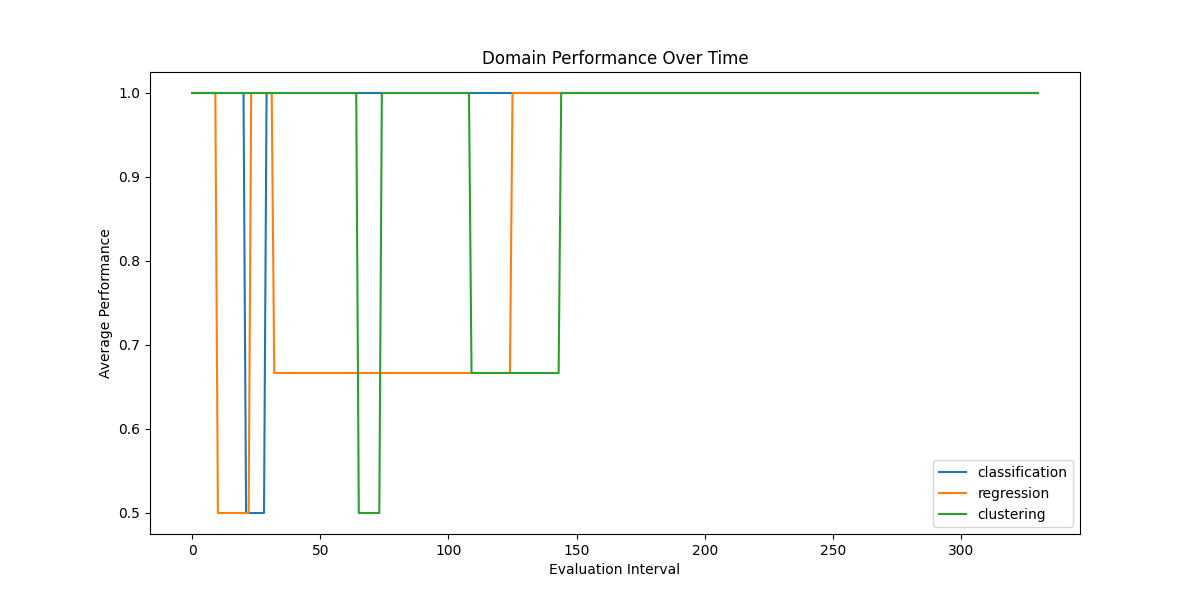
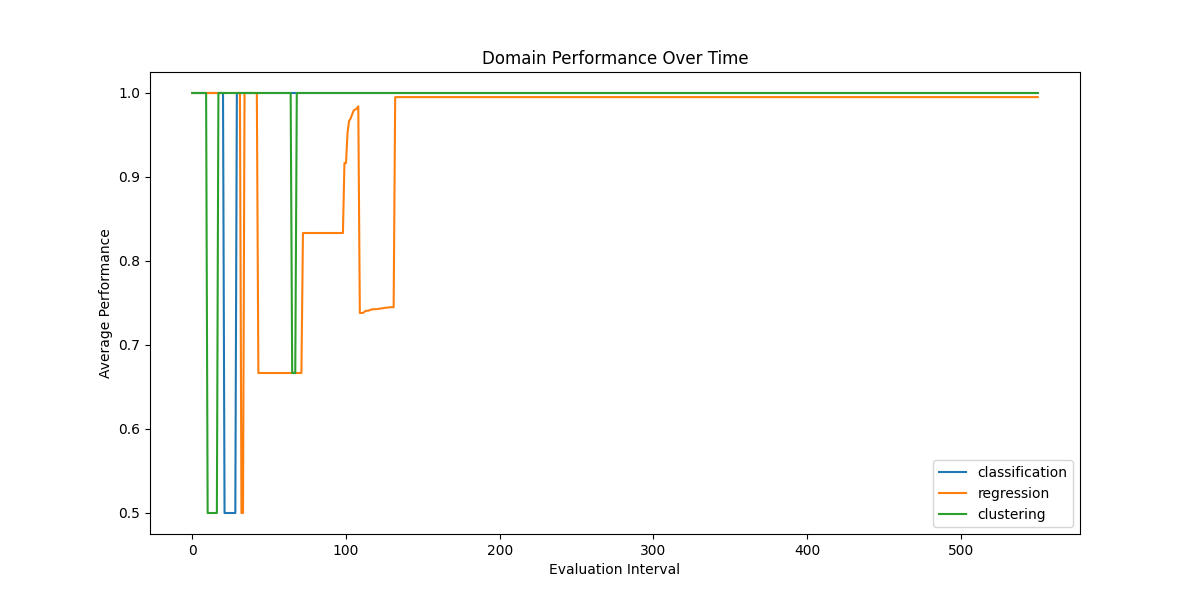
Backengine code update

diff --git a/collaborative_intelligence.py b/collaborative_intelligence.py
@@ -31,6 +31,7 @@ class Agent:
         }
         self.mentor = None
         self.mentee = None
+        self.mentoring_impact = defaultdict(list)  # Track impact of mentoring
 
     async def process_task(self, task: Task) -> Tuple[str, float]:
         processing_time = task.complexity * (1 / self.reputation) * (1 / self.expertise_level[task.domain])
@@ -101,9 +102,14 @@ class Agent:
         return current_time - self.last_information_request >= 7
 
     def increase_expertise(self, domain: str):
+        old_expertise = self.expertise_level[domain]
         self.expertise_level[domain] = min(10, self.expertise_level[domain] + 0.1)
         if self.mentee:
+            mentee_old_expertise = self.mentee.expertise_level[domain]
             self.mentee.expertise_level[domain] = min(self.mentee.expertise_level[domain] + 0.05, self.expertise_level[domain])
+            mentee_expertise_gain = self.mentee.expertise_level[domain] - mentee_old_expertise
+            self.mentoring_impact[domain].append(mentee_expertise_gain)
+        return self.expertise_level[domain] - old_expertise
 
 class MultiAgentSystem:
     def __init__(self, agents: List[Agent]):
@@ -118,6 +124,7 @@ class MultiAgentSystem:
         self.add_agent_threshold = 0.7
         self.remove_agent_threshold = 0.4
         self.domain_performance = defaultdict(list)
+        self.mentoring_reports = []
         for agent in self.agents:
             agent.creation_time = self.current_time
 
@@ -146,7 +153,7 @@ class MultiAgentSystem:
             workload_score = 1 / (1 + abs(agent_workloads[agent] - avg_workload))
             specialization_score = 2 if agent.specialization == task.domain else 1
             warm_up_score = min(1, (self.current_time - agent.creation_time) / 3)
-            integration_score = 3 if agent.total_tasks_processed < 50 else 1
+            integration_score = 5 if agent.total_tasks_processed < 50 else 1  # Increased boost for newer agents
             catch_up_score = 1 + max(0, (avg_workload - agent.total_tasks_processed) / avg_workload)
             domain_balance_score = domain_workloads[task.domain] / total_domain_workload if total_domain_workload > 0 else 1
             expertise_score = agent.expertise_level[task.domain]
@@ -274,6 +281,7 @@ class MultiAgentSystem:
         self.performance_history.append(system_performance)
         self.workload_history.append(self._get_workload_distribution())
         self._update_domain_performance()
+        self._generate_mentoring_report()
         self.log.append(f"Time {self.current_time}: System performance: {system_performance:.2f}")
         return system_performance
 
@@ -304,6 +312,17 @@ class MultiAgentSystem:
                 avg_performance = sum(agent.performance_by_task_type[domain]['success'] / max(1, agent.performance_by_task_type[domain]['total']) for agent in domain_agents) / len(domain_agents)
                 self.domain_performance[domain].append(avg_performance)
 
+    def _generate_mentoring_report(self):
+        report = {}
+        for agent in self.agents:
+            if agent.mentee:
+                mentee_improvements = {domain: sum(impacts) / len(impacts) if impacts else 0 for domain, impacts in agent.mentoring_impact.items()}
+                report[agent.agent_id] = {
+                    "mentee": agent.mentee.agent_id,
+                    "improvements": mentee_improvements
+                }
+        self.mentoring_reports.append(report)
+
     def _adjust_agent_specializations(self):
         for agent in self.agents:
             if agent.specialization_change_cooldown > 0:
@@ -313,7 +332,7 @@ class MultiAgentSystem:
             best_specialization = agent.get_best_specialization()
             if best_specialization != agent.specialization:
                 performance_diff = agent.get_performance_difference()
-                change_probability = min(1.0, performance_diff * 15)  # Increased sensitivity
+                change_probability = min(1.0, performance_diff * 20)  # Increased sensitivity
                 if random.random() < change_probability:
                     self._remove_mentorship(agent)
                     self.log.append(f"Time {self.current_time}: {agent.agent_id} changed specialization from {agent.specialization} to {best_specialization}")
@@ -422,3 +441,6 @@ class MultiAgentSystem:
 
     def get_domain_performance(self):
         return self.domain_performance
+
+    def get_mentoring_reports(self):
+        return self.mentoring_reports

diff --git a/test_enhanced_collaborative_intelligence.py b/test_enhanced_collaborative_intelligence.py
@@ -28,9 +28,9 @@ async def test_enhanced_collaborative_intelligence():
         print(f"{agent.agent_id} reputation: {agent.reputation:.2f}")
 
     print("\n2. Extended Simulation:")
-    num_steps = 300  # Increased simulation steps
+    num_steps = 500  # Increased simulation steps
     for step in range(num_steps):
-        if step % 30 == 0:
+        if step % 50 == 0:
             print(f"Step {step}/{num_steps}")
         await mas.run_simulation(1)
     final_performance = mas.evaluate_system_performance()
@@ -125,7 +125,16 @@ async def test_enhanced_collaborative_intelligence():
     plt.savefig("domain_performance.png")
     print("Domain performance graph saved as 'domain_performance.png'")
 
-    print("\n13. Final Performance Thresholds:")
+    print("\n13. Mentoring Impact:")
+    mentoring_reports = mas.get_mentoring_reports()
+    for i, report in enumerate(mentoring_reports[-5:], 1):
+        print(f"Report {i}:")
+        for mentor, data in report.items():
+            print(f"  Mentor {mentor} - Mentee {data['mentee']}:")
+            for domain, improvement in data['improvements'].items():
+                print(f"    {domain}: {improvement:.4f}")
+
+    print("\n14. Final Performance Thresholds:")
     print(f"Add agent threshold: {mas.add_agent_threshold:.2f}")
     print(f"Remove agent threshold: {mas.remove_agent_threshold:.2f}")
 
